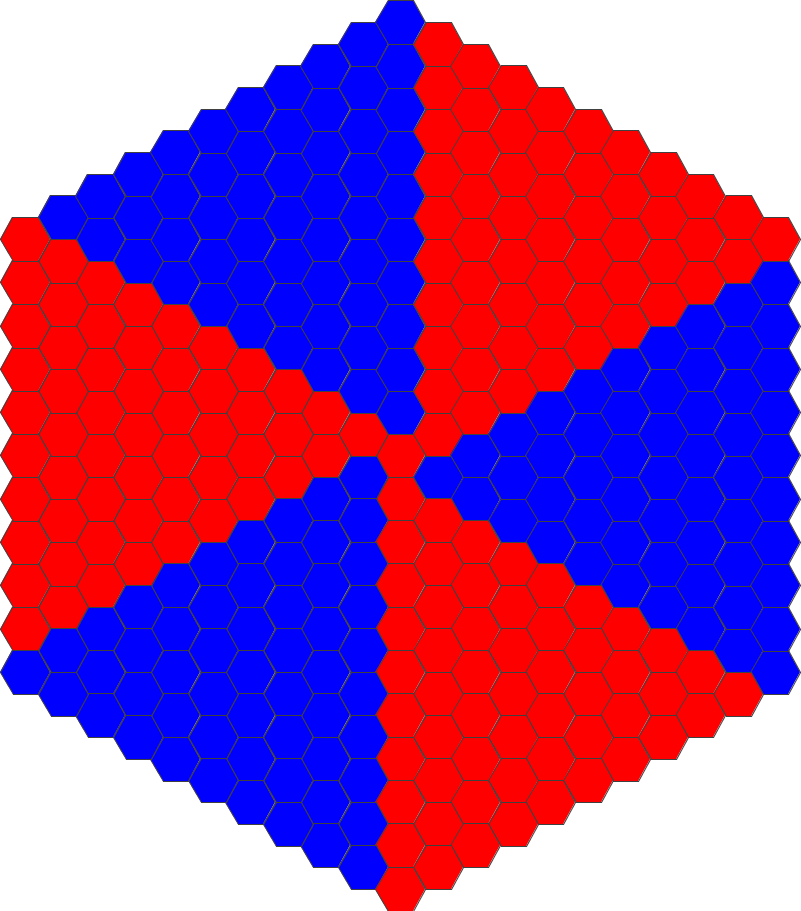
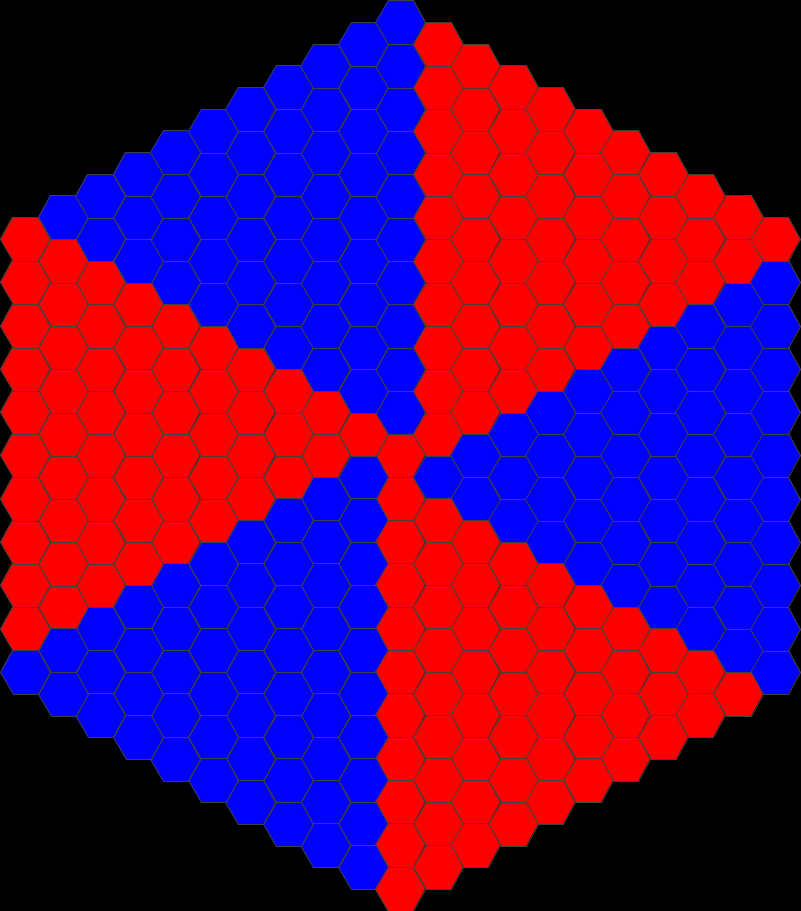
981770-71507794 Improve graphics performance.
Substantial graphics performance improvements were gained by ditching ImageIO in favor of a free proprietary package called PngEncoder:
http://objectplanet.com/pngencoder/

Changed region(s): [[0.0, 0.0, 1.0, 1.0]]

diff --git a/eslime/src/io/serialize/binary/VisualizationSerializer.java b/eslime/src/io/serialize/binary/VisualizationSerializer.java
@@ -21,6 +21,7 @@
 
 package io.serialize.binary;
 
+import com.objectplanet.image.PngEncoder;
 import control.GeneralParameters;
 import control.halt.HaltCondition;
 import geometry.Geometry;
@@ -32,8 +33,10 @@ import layers.SystemState;
 import processes.StepState;
 
 import javax.imageio.ImageIO;
+import java.awt.*;
 import java.awt.image.BufferedImage;
 import java.io.File;
+import java.io.FileOutputStream;
 import java.io.IOException;
 
 /**
@@ -53,19 +56,23 @@ public class VisualizationSerializer extends Serializer {
 
     private Geometry geometry;
 
+    private PngEncoder pngEncoder;
+
     @Override
     public void init(LayerManager layerManager) {
         super.init(layerManager);
         geometry = layerManager.getCellLayer().getGeometry();
+
+
+        pngEncoder = new PngEncoder();
     }
 
     public VisualizationSerializer(GeneralParameters p,
                                    Visualization visualization,
-                                   String prefix, String mode) {
+                                   String prefix) {
         super(p);
         this.visualization = visualization;
         this.prefix = prefix;
-        this.mode = mode;
     }
 
     @Override
@@ -84,7 +91,7 @@ public class VisualizationSerializer extends Serializer {
         // Scan through the frames...
         for (SystemState systemState : reader) {
             // Render the frame.
-            BufferedImage image = visualization.render(systemState);
+            Image image = visualization.render(systemState);
 
             // Export the frame to the disk.
             generateFile(systemState, image);
@@ -93,11 +100,14 @@ public class VisualizationSerializer extends Serializer {
         visualization.conclude();
     }
 
-    private void generateFile(SystemState systemState, BufferedImage image) {
+    private void generateFile(SystemState systemState, Image image) {
         String fileName = buildFileName(systemState.getTime());
         File file = new File(fileName);
         try {
-            ImageIO.write(image, mode, file);
+            FileOutputStream fos = new FileOutputStream(file);
+            pngEncoder.encode(image, fos);
+            fos.close();
+//            ImageIO.write(image, mode, file);
         } catch (IOException ex) {
             throw new RuntimeException(ex);
         }
@@ -108,8 +118,7 @@ public class VisualizationSerializer extends Serializer {
         builder.append(p.getInstancePath());
         builder.append(prefix);
         builder.append(time);
-        builder.append(".");
-        builder.append(mode.toLowerCase());
+        builder.append(".png");
         return builder.toString();
     }
 

diff --git a/eslime/src/io/factory/SerializationFactory.java b/eslime/src/io/factory/SerializationFactory.java
@@ -119,17 +119,9 @@ public abstract class SerializationFactory {
             prefix = prefixElement.getTextTrim();
         }
 
-        String mode;
-        Element modeElement = e.element("mode");
-        if (modeElement == null) {
-            mode = "png";
-        } else {
-            mode = modeElement.getTextTrim();
-        }
-
         Element visElement = e.element("visualization");
         Visualization visualization = VisualizationFactory.instantiate(visElement);
 
-        return new VisualizationSerializer(p, visualization, prefix, mode);
+        return new VisualizationSerializer(p, visualization, prefix);
     }
 }

diff --git a/eslime/src/io/visual/map/MapVisualization.java b/eslime/src/io/visual/map/MapVisualization.java
@@ -45,7 +45,7 @@ public class MapVisualization implements Visualization {
     @Override
     public BufferedImage render(SystemState systemState) {
         Coordinate pDims = translator.getImageDims();
-        BufferedImage img = new BufferedImage(pDims.x(), pDims.y(), BufferedImage.TYPE_INT_ARGB);
+        BufferedImage img = new BufferedImage(pDims.x(), pDims.y(), BufferedImage.TYPE_INT_RGB);
 
         Graphics2D g = (Graphics2D) img.getGraphics();
         g.setRenderingHint(RenderingHints.KEY_ANTIALIASING, RenderingHints.VALUE_ANTIALIAS_ON);

diff --git a/eslime/src/io/visual/Visualization.java b/eslime/src/io/visual/Visualization.java
@@ -24,6 +24,7 @@ package io.visual;
 import geometry.Geometry;
 import layers.SystemState;
 
+import java.awt.*;
 import java.awt.image.BufferedImage;
 
 /**
@@ -52,7 +53,7 @@ public interface Visualization {
      *
      * @param systemState
      */
-    public abstract BufferedImage render(SystemState systemState);
+    public abstract Image render(SystemState systemState);
 
     /**
      * Perform any actions necessary for finalizing the current visualization.

diff --git a/eslime/tests/io/serialize/binary/VisualizationSerializerTest.java b/eslime/tests/io/serialize/binary/VisualizationSerializerTest.java
@@ -57,8 +57,7 @@ public class VisualizationSerializerTest extends EslimeTestCase {
         // because it exists.
         p.setInstancePath(fixturePath + "SystemStateReader/");
         String prefix = "../../output/test";
-        String mode = "png";
-        query = new VisualizationSerializer(p, visualization, prefix, mode);
+        query = new VisualizationSerializer(p, visualization, prefix);
         query.init(lm);
     }
 

diff --git a/eslime/src/io/visual/glyph/BullseyeGlyph.java b/eslime/src/io/visual/glyph/BullseyeGlyph.java
@@ -70,8 +70,6 @@ public class BullseyeGlyph extends Glyph {
 
             // Outermost circle.
 
-            // Not sure why I have to set this again, but oh well. Anything to avoid jaggies!
-//            graphics.setRenderingHint(RenderingHints.KEY_ANTIALIASING, RenderingHints.VALUE_ANTIALIAS_ON);
             graphics.setColor(color);
             graphics.fillOval(x, y, radius * 2, radius * 2);
         }
